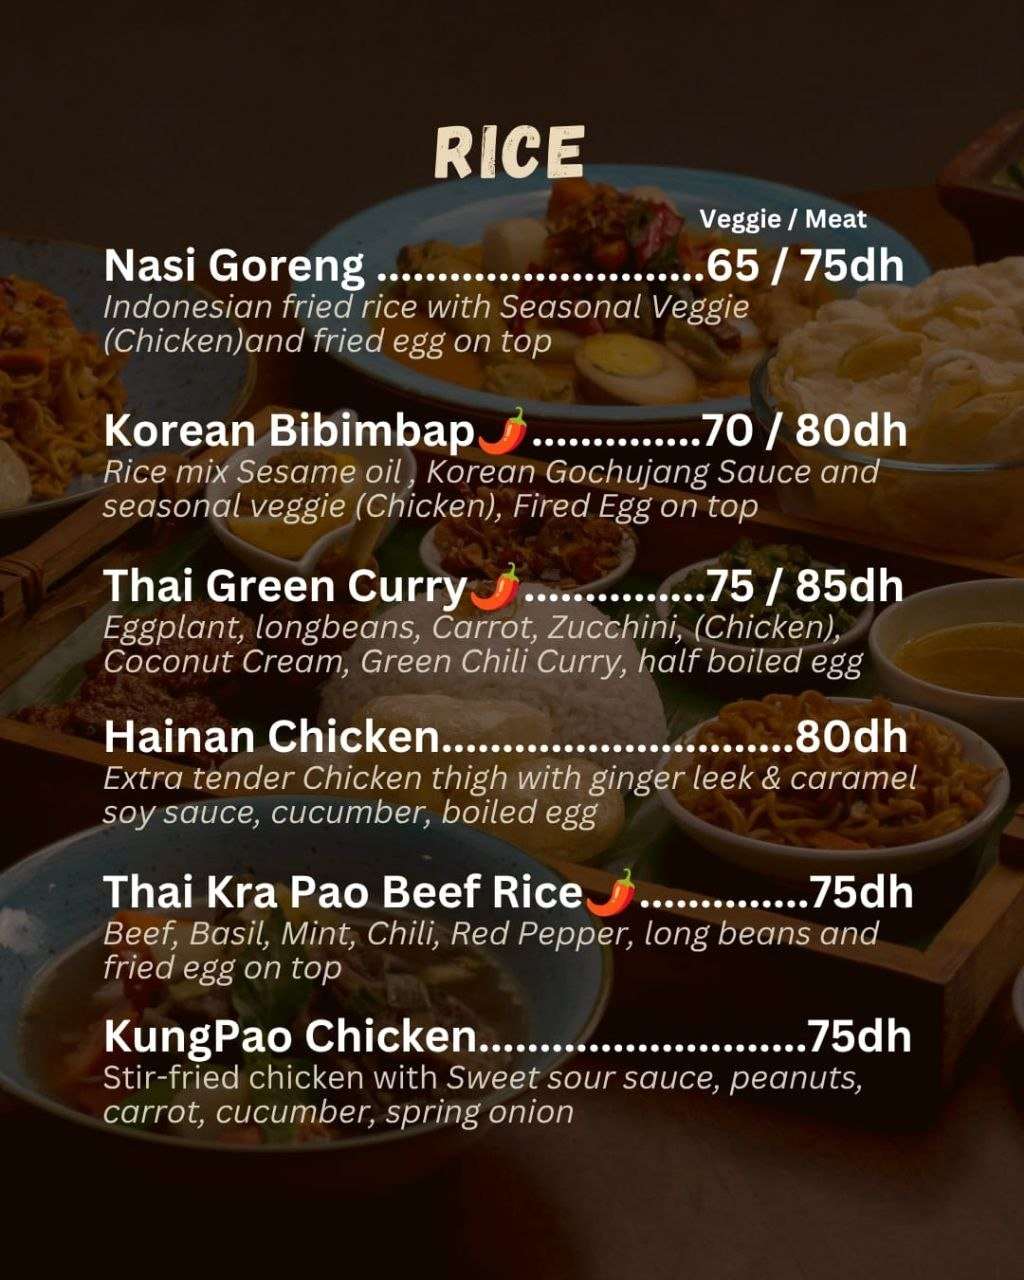
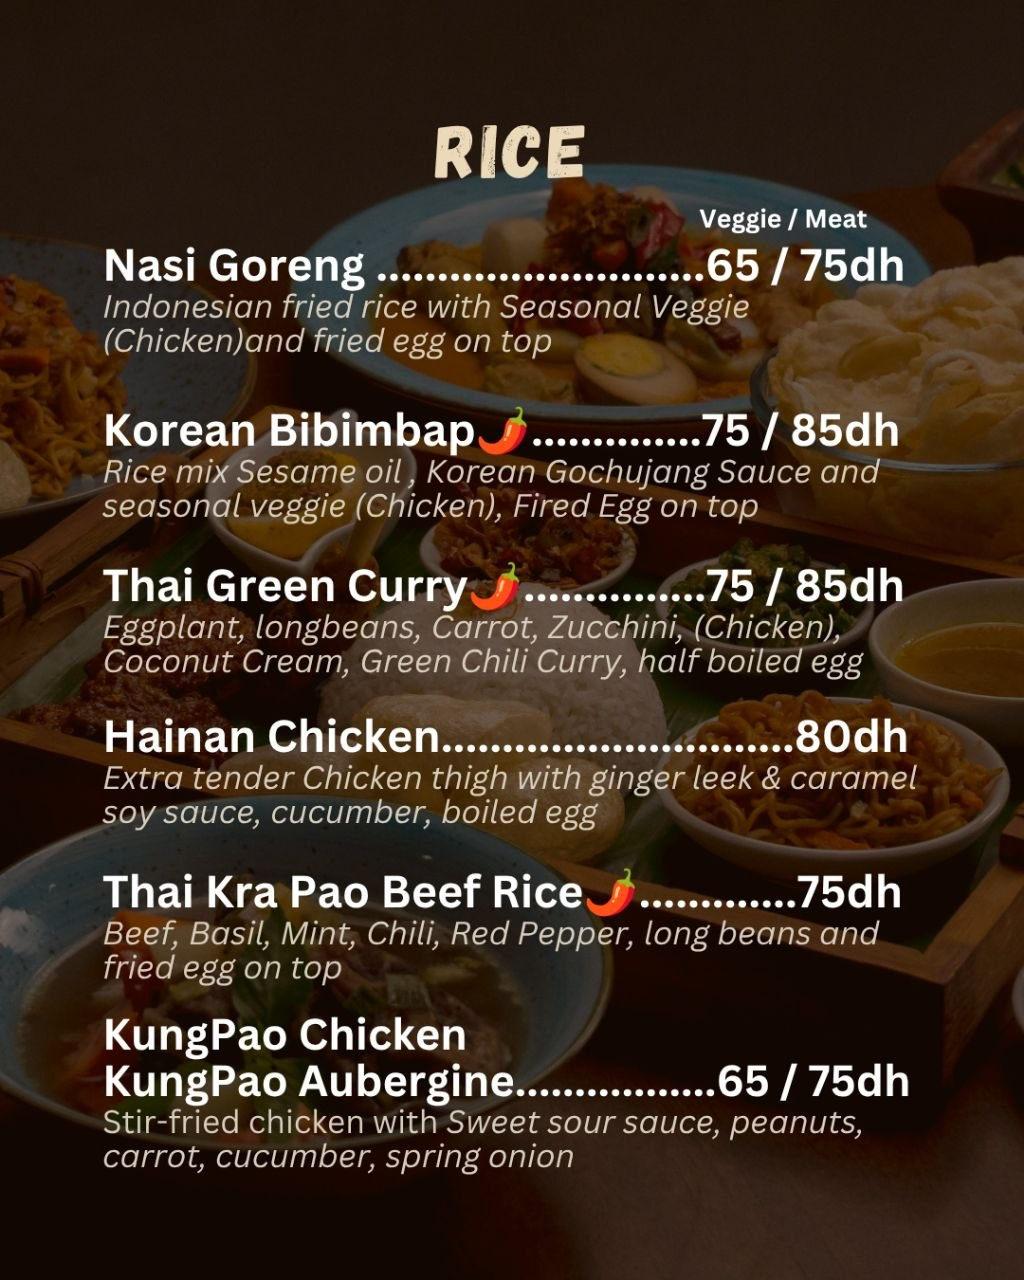
carta: nuevas fotos de Rice, Noodle & Pho y Drinks + precios de los alt al dia

Changed region(s): [[0.0938, 0.7812, 0.9062, 0.9375], [0.6875, 0.3125, 0.9062, 0.375], [0.7812, 0.6875, 0.9062, 0.7188]]

diff --git a/index.html b/index.html
@@ -69,16 +69,16 @@
 
 <main>
   <figure id="dumplings">
-    <img src="img/1-dumplings.jpg" alt="Kinomori menu — Handmade Dumpling, 6 pieces: Beef filling (65dh), Veggie filling (60dh) · Crispy / Sichuan Spicy / Soup" loading="eager" decoding="async">
+    <img src="img/1-dumplings.jpg?v=2" alt="Kinomori menu — Handmade Dumpling, 6 pieces: Beef filling (65dh), Veggie filling (60dh) · Crispy / Sichuan Spicy / Soup" loading="eager" decoding="async">
   </figure>
   <figure id="rice">
-    <img src="img/2-rice.jpg" alt="Kinomori menu — Rice: Nasi Goreng (65/75dh), Korean Bibimbap (70/80dh), Thai Green Curry (75/85dh), Hainan Chicken (80dh), Thai Kra Pao Beef Rice (75dh), KungPao Chicken (75dh)" loading="lazy" decoding="async">
+    <img src="img/2-rice.jpg?v=2" alt="Kinomori menu — Rice: Nasi Goreng (65/75dh), Korean Bibimbap (75/85dh), Thai Green Curry (75/85dh), Hainan Chicken (80dh), Thai Kra Pao Beef Rice (75dh), KungPao Chicken / KungPao Aubergine (65/75dh)" loading="lazy" decoding="async">
   </figure>
   <figure id="noodles">
-    <img src="img/3-noodles.jpg" alt="Kinomori menu — Noodle &amp; Pho: Mie Goreng (65/75dh), Sichuan Dandan Noodle (75dh), Beijing ZhaJiang Noodle (75dh), Thai Yum Sen Mee Gai (75dh), Vietnamese Pho Ga soup or dry (75dh), Peanut Sauce Chill Noodle (65dh)" loading="lazy" decoding="async">
+    <img src="img/3-noodles.jpg?v=2" alt="Kinomori menu — Noodle &amp; Pho: Mie Goreng (65/75dh), Sichuan Dandan Noodle (75dh), Beijing ZhaJiang Noodle (65/75dh), Thai Yam Sen Mee (70/80dh), Vietnamese Pho Ga soup or dry (75dh), Peanut Sauce Chill Soba (60/70dh)" loading="lazy" decoding="async">
   </figure>
   <figure id="drinks">
-    <img src="img/4-drinks.jpg" alt="Kinomori menu — Drinks: Cold Brew Oolong Tea (20dh), Homemade VC Lemonnade (35dh), Tropical Iced Tea (30dh), Detox Green Juice (35dh), Fresh Orange Juice (25dh), Warm Pot Black Tea (25dh), Bottle of Water (10/20dh), Coca Cola (20dh), Sparkling Water (15dh)" loading="lazy" decoding="async">
+    <img src="img/4-drinks.jpg?v=2" alt="Kinomori menu — Drinks: Cold Brew Oolong Tea (20dh), Homemade VC Lemonnade (30dh), Tropical Iced Tea (30dh), Detox Green Juice (35dh), Fresh Orange Juice (25dh), Warm Pot Black Tea (25dh), Bottle of Water (10/20dh), Coca Cola (20dh), Sparkling Water (15dh)" loading="lazy" decoding="async">
   </figure>
 </main>
 
